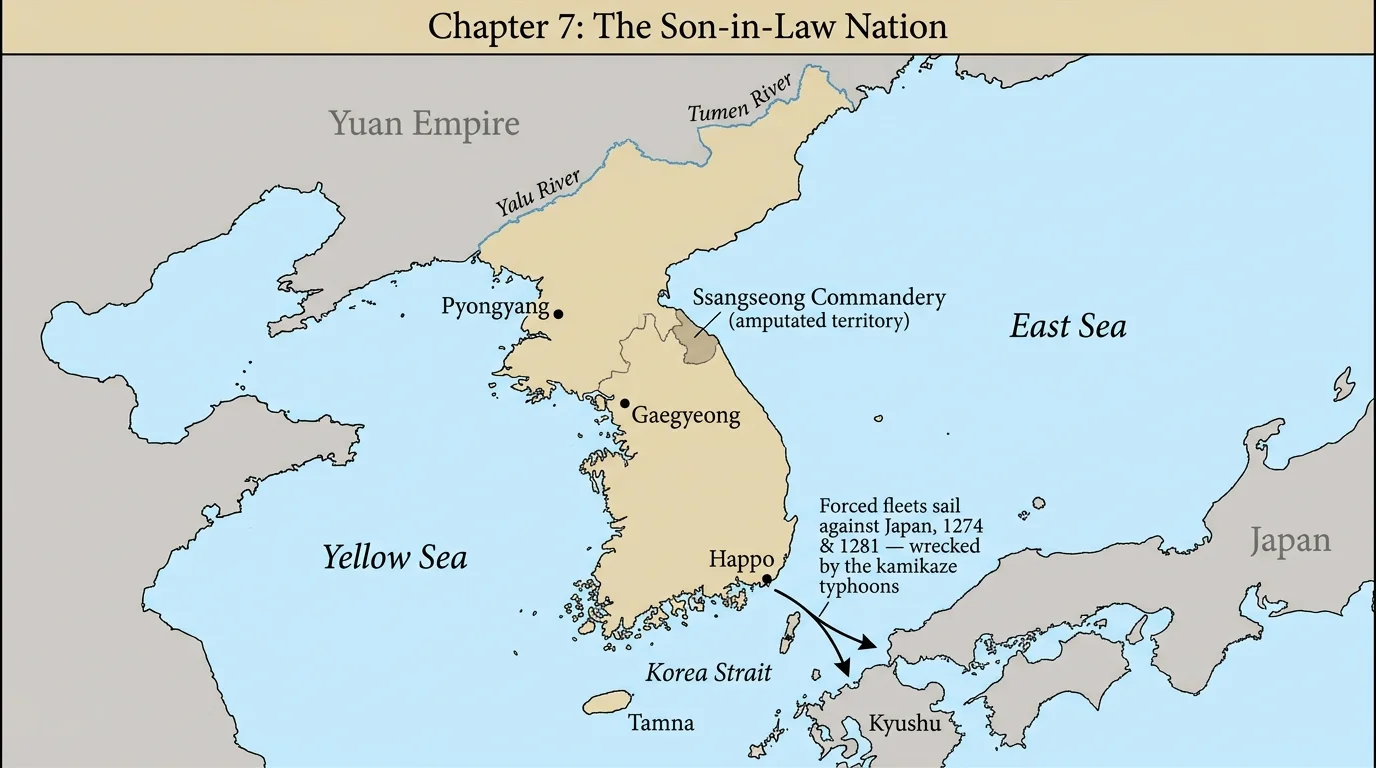
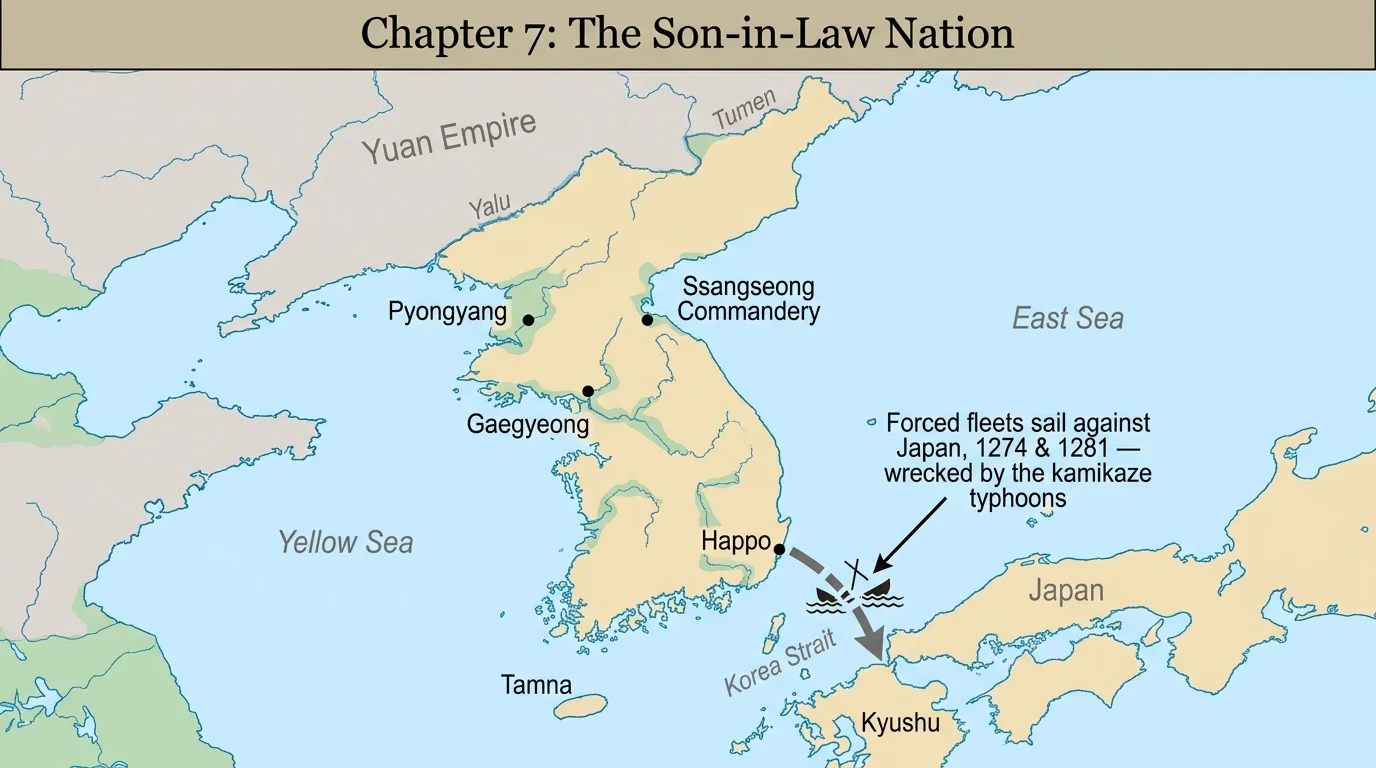
goryeo-korea SHIPPED: hasContent true — full gated pipeline clean
Finishes the goryeo-korea pipeline trial. All gates green:
- G4 maps 8/8 PASS. Map-QA rubric RECALIBRATED (user-approved): the
  stochastic ~1px reader-invisible edge hairline is no longer a defect —
  only a thick/ornamental/boxed/matted picture-frame enclosure or an
  interior border FAILs. ch4 now PASSes on merit (was a forced re-roll/
  waiver); ch3 stays PASS via its genuine geo-placement waiver. Kills
  ~75 re-rolls/waivers across the 17-civ roster. Memory + README + the
  audit-maps locked-criteria comment updated to match (4th correction).
- ch7 real defect fixed: Gemini stamped "(amputated territory)" on the
  Ssangseong label, pulled from the scene sentence. Added a Ssangseong
  anti-parenthetical SPECIFIC REMINDER (mirrors the proven Tamna one) +
  stripped the trigger word from the framing line; one regen, clean.
- G12 glossary 128/128: Hanji→Korean_paper, Mongols→Mongols (was the
  invasions event), Xu Jing→Goryeo (no standalone EN article for the
  Song envoy nor his Gaoli Tujing; on-thread same-era parent) + a
  .glossary-slug-waivers entry per CLAUDE.md step 10d.
- ship-check.mjs goryeo-korea: CLEAR (all 11 assertions pass).

diff --git a/src/lib/navigator-tls.ts b/src/lib/navigator-tls.ts
@@ -101,7 +101,7 @@ export const NAVIGATOR_TLS: NavigatorTl[] = [
   { id: 'meiji-japan', label: 'Meiji Japan', subtitle: 'Japan races to industrialize', region: 'asia', startYear: 1868, endYear: 1912, hasContent: true },
   { id: 'japanese-economic-miracle', label: 'Japanese Economic Miracle', subtitle: "postwar Japan's boom", region: 'asia', startYear: 1945, endYear: 1991, hasContent: true },
   { id: 'ancient-korea', label: 'Ancient Korea', subtitle: 'mythic Korea to Silla unification', region: 'asia', startYear: -2333, endYear: 935, hasContent: true },
-  { id: 'goryeo-korea', label: 'Goryeo Korea', subtitle: 'the dynasty that named Korea', region: 'asia', startYear: 918, endYear: 1392, hasContent: false },
+  { id: 'goryeo-korea', label: 'Goryeo Korea', subtitle: 'the dynasty that named Korea', region: 'asia', startYear: 918, endYear: 1392, hasContent: true },
   { id: 'joseon-korea', label: 'Joseon Korea', subtitle: "Confucian Korea's long dynasty", region: 'asia', startYear: 1392, endYear: 1910, hasContent: true },
   { id: 'korean-modern', label: 'Modern Korea', subtitle: 'colonization, war, and split', region: 'asia', startYear: 1910, endYear: 2024, hasContent: true },
   { id: 'srivijaya', label: 'Srivijaya', subtitle: "Sumatra's maritime Buddhist empire", region: 'asia', startYear: 650, endYear: 1377, hasContent: true },

diff --git a/map-prompts/README.md b/map-prompts/README.md
@@ -27,7 +27,7 @@ Paste this block at the top of every prompt, before the chapter-title directive,
 
 ---
 
-The chapter title "Chapter N: <Title>" should appear at the top of the map image, centered, in a clean serif font, inside a header bar that spans the full width of the image. The header bar is the ONLY bordered element of the image. Draw NO border, outline, frame, rectangle, or hairline anywhere else — the map and its water must bleed off all four outer edges (top beside the title bar, left, right, bottom). Never enclose the map in a rectangle. Render the chapter title **exactly once**, only inside that single full-width header bar — never a second title, a floating title box, or a separately boxed chapter number. (Frame violations were the most common failure in the 2026-05 audit — ~50% on the first re-canary run; the re-canary also showed a recurring duplicate/boxed-title failure.)
+The chapter title "Chapter N: <Title>" should appear at the top of the map image, centered, in a clean serif font, inside a header bar that spans the full width of the image. The header bar is the ONLY bordered element of the image. Draw NO border, outline, frame, rectangle, or hairline anywhere else — the map and its water must bleed off all four outer edges (top beside the title bar, left, right, bottom). Never enclose the map in a rectangle. Render the chapter title **exactly once**, only inside that single full-width header bar — never a second title, a floating title box, or a separately boxed chapter number. (Frame violations were the most common failure in the 2026-05 audit — ~50% on the first re-canary run; the re-canary also showed a recurring duplicate/boxed-title failure.) **Generation vs. QA asymmetry (2026-05-17):** the prompt still demands NO frame, but the `audit-maps.mjs` QA gate was recalibrated to NOT fail a thin reader-invisible edge hairline that Gemini stochastically slips in anyway (only a thick/ornamental/boxed/matted picture-frame enclosure or an interior border FAILs). Ask for clean; don't burn billable re-rolls chasing a stochastic 1px edge. Do not re-tighten the QA side.
 ```
 
 **Swap in the chapter number and title on the last line.** Do not paraphrase the rules block — use the exact wording above, because Gemini tends to follow literal directives more reliably than paraphrased ones.

diff --git a/map-prompts/goryeo-korea.md b/map-prompts/goryeo-korea.md
@@ -292,9 +292,10 @@ The chapter title "Chapter 7: The Son-in-Law Nation" should appear at the top in
 **SPECIFIC REMINDERS for this chapter:**
 - On the prior run the map was enclosed in a black hairline border on all four sides. Draw NO border, frame, rectangle, outline, or hairline anywhere except the full-width title header bar at the very top. The map and ALL water must bleed fully off the left, right, and bottom edges.
 - The island site label is EXACTLY "Tamna" — nothing more. On the prior run Gemini invented the extra text "(under Yuan commandery control)" on the Tamna label. Do NOT add it. Render only the literal site names and the one annotation listed in this prompt; invent no parenthetical, no extra annotation, and no words that are not written in this prompt.
+- The site label is EXACTLY "Ssangseong Commandery" — nothing more. On the prior run Gemini invented the extra text "(amputated territory)" on the Ssangseong Commandery label, pulling the word from the scene-setting sentence. Do NOT add "amputated", "(amputated territory)", or any parenthetical to the Ssangseong Commandery label.
 - Spell every body of water EXACTLY as written: "Korea Strait" (letter for letter), "Yellow Sea", "East Sea". On the prior run the strait was garbled as "Kored Strait" — do not add, drop, or swap any letter in "Korea Strait".
 
-Map of Goryeo as a Yuan son-in-law state: the amputated territories and the forced invasion fleets sailing for Japan.
+Map of Goryeo as a Yuan son-in-law state: the territories annexed by the Yuan and the forced invasion fleets sailing for Japan.
 
 5 sites, name-only labels:
 - Gaegyeong — center-west, the capital (the court returns from Ganghwa in 1270)
